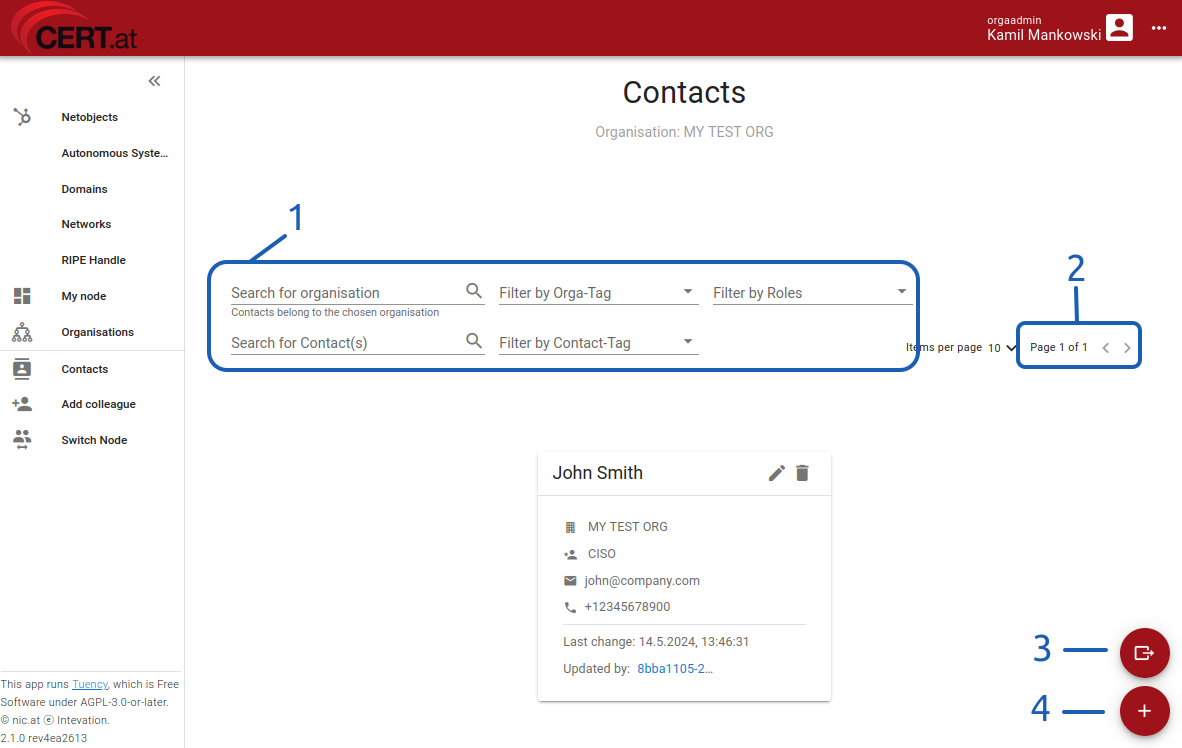
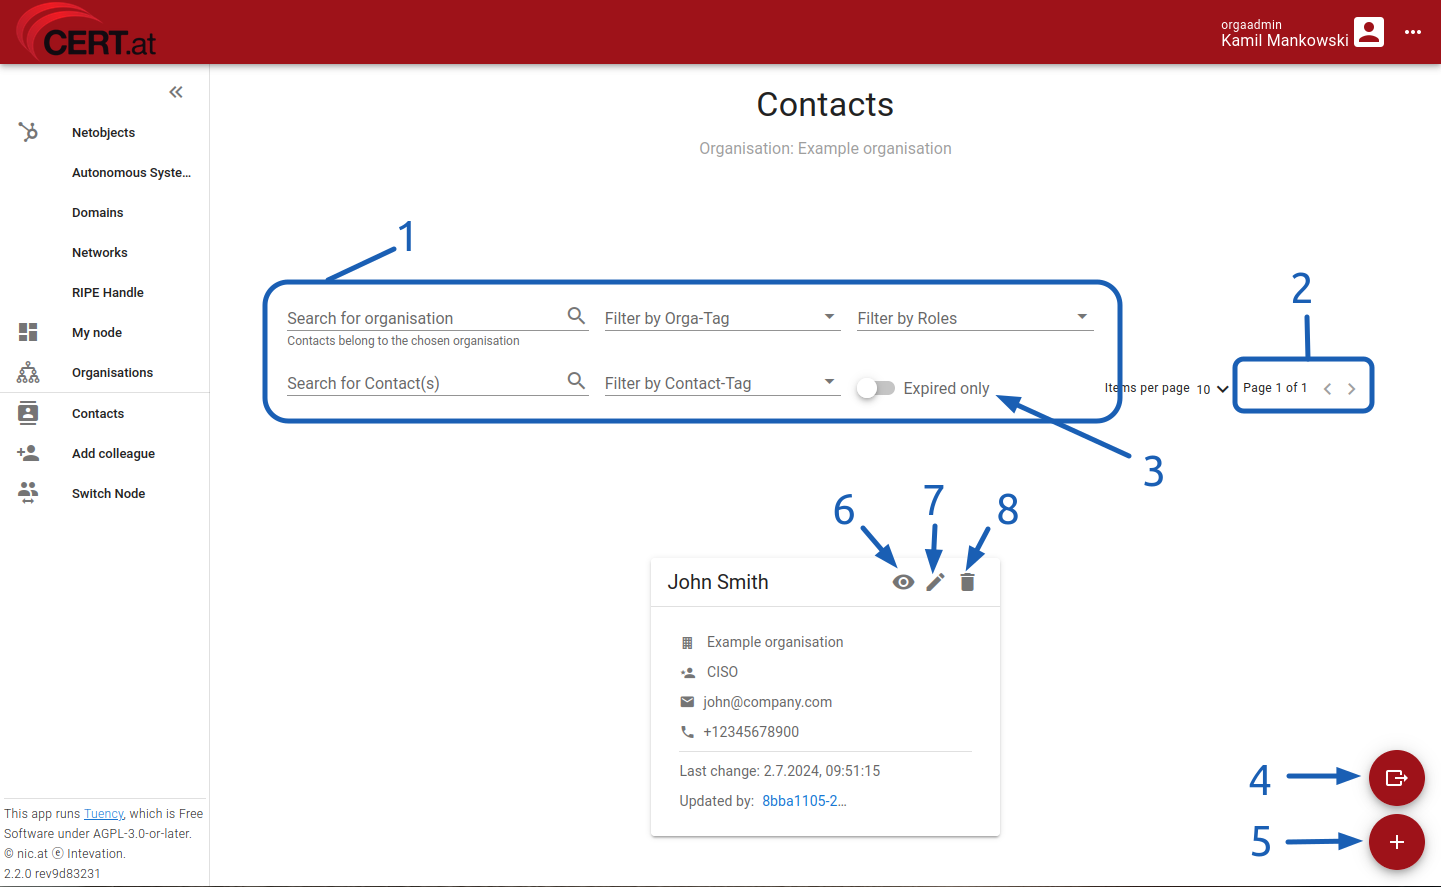
Docs about expired contacts

diff --git a/docs/js/banner.js b/docs/js/banner.js
@@ -10,7 +10,7 @@ document$.subscribe(function() {
         <div class="md-banner__inner md-grid md-typeset">
             You're seeing an unofficial or development version of the documentation.
             The content may not refer the current state nor be provided by CERT.at. <br>
-            Please visit <a href="https://cert.at">cert.at</a> to read the official documentation.
+            Please visit <a href="https://tuency.cert.at/docs/">cert.at</a> to read the official documentation.
         </div>
     </aside>`;
 

diff --git a/docs/Managing organization/03_reminders.md b/docs/Managing organization/03_reminders.md
@@ -1,0 +1,50 @@
+# Keeping Contacts Up-To-Date
+
+In case of an incident, it's crucial to have correct and up-to-date contact information. To ensure
+this, the Constituency Portal will send an email notification to orgadmins if their organizations
+have contacts that haven't been updated for a long time.
+
+!!! info "Notification Frequency"
+    We do not like SPAM nor frequent emails. However, opting out from notifications is not possible
+    as keeping contacts up-to-date is the main purpose of the Portal. To maintain a balance between
+    information accuracy and the number of emails, we notify you:
+
+    * Only **once a week**, on Monday morning.
+    * About contacts that weren't updated in the last **90 days**.
+    * If you don't update a contact after notification, we will remind you about this specific contact
+      first in **30 days**.
+
+## Finding Expired Contacts
+
+The reminder email will inform you about the affected organization and provide a short overview of
+the roles that the expired contacts have. To find exactly which contacts need an update, open the
+Contacts tab in the Portal.
+
+Here, every expired contact is marked with an orange clock icon next to the *Last change* date.
+Additionally, you can use a toggle switch to filter only expired contacts, allowing you to quickly
+see all of them.
+
+<figure markdown="span">
+    ![Expired contact mark](assets/expired_mark.png)
+    _Every expired contact is marked next to the_ Last change _date_
+</figure>
+
+<figure markdown="span">
+    ![Filtering expired contacts](assets/expired_filter.png)
+    _Use the filter on the_ Contacts _page to see only expired contacts_
+</figure>
+
+!!! tip
+    You may find more expired contacts than mentioned in the email - this just means they expired
+    after we generated the notification.
+
+## Updating or Acknowledging Contact Data
+
+Any change in the contact data refreshes the expiration timer. If the data is already correct, you
+can click on _Confirm without change_ in the Contact Edit Form to refresh the _Last change_ date.
+Once you change something in the form, the button is replaced by _Update_.
+
+<figure markdown="span">
+    ![Confirming data](assets/expired_confirm.png)
+    _You can confirm data without making any changes_
+</figure>

diff --git a/docs/10_changelog.md b/docs/10_changelog.md
@@ -1,0 +1,16 @@
+# Changelog
+
+This is a short overview of what we changed in our Portal to help you use new possibilities.
+
+## 2024-07-02
+
+  * We started reminding about expired contacts - see [documentation](Managing%20organization/03_reminders.md).
+  * All outgoing emails are now signed with our S/MIME certificate.
+  * Contacts are now sharable using URL and have a simple read-only view.
+  * Adjustments in roles available in different tenants.
+  * Improvements in filtering and search features.
+
+## 2024-05-06
+
+  * We started invitation-only, limited usage of the Portal.
+  * Usage is limited to Contacts features.

diff --git a/docs/Managing organization/01_contacts.md b/docs/Managing organization/01_contacts.md
@@ -13,8 +13,12 @@ overview of the available data. Additionally, you can find:
 
 1. Fields to search and filter contacts.
 2. Navigation buttons to browse through pages of results.
-3. A button to export contacts.
-4. A button to create a new contact.
+3. A toggle to show [expired contacts](03_reminders.md) only.
+4. A button to export contacts.
+5. A button to create a new contact.
+6. Opening read-only view of the contact.
+7. Opening edit form for the contact.
+8. Deleting the contact.
 
 ## Understanding Contact Cards
 

diff --git a/docs/index.md b/docs/index.md
@@ -3,7 +3,7 @@
 This documentation is designed to help users navigate the Constituency Portal for CERT.at, AEC,
 and GovCERT. While we strive to keep this documentation up-to-date, please be aware that it may
 not cover all features and functionalities. Your contributions are welcome
-via our public [GitHub repository](https://github.com/certat/constituency-docs).
+via our public [GitHub repository](https://github.com/certat/tuency-docs).
 
 ## Purpose of the Portal
 
